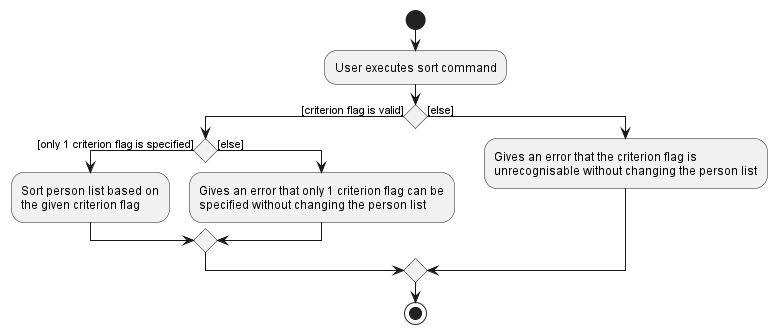
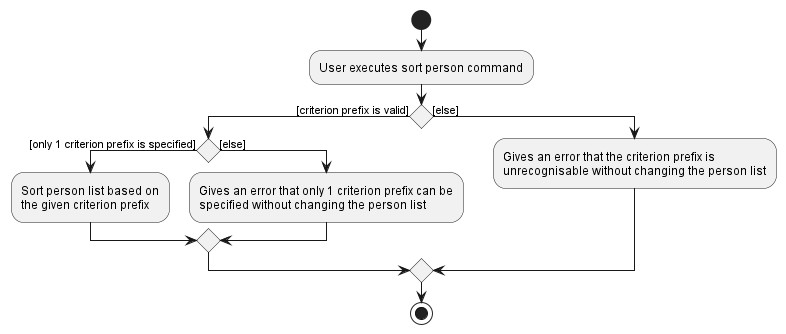
Update PPP to specify more on DG addition

diff --git a/docs/team/chengda300.md b/docs/team/chengda300.md
@@ -32,6 +32,6 @@ Given below are my contributions to the project.
     * Added "list internship"
     * Added "sort person"
   * Developer Guide:
-    * Added "sort person" implementation
+    * Added "sort person" implementation, activity diagram, sequence diagram, use case and manual test cases.
 
 * **Code Reviews**: [#145](https://github.com/AY2223S1-CS2103T-F11-1/tp/pull/145)
